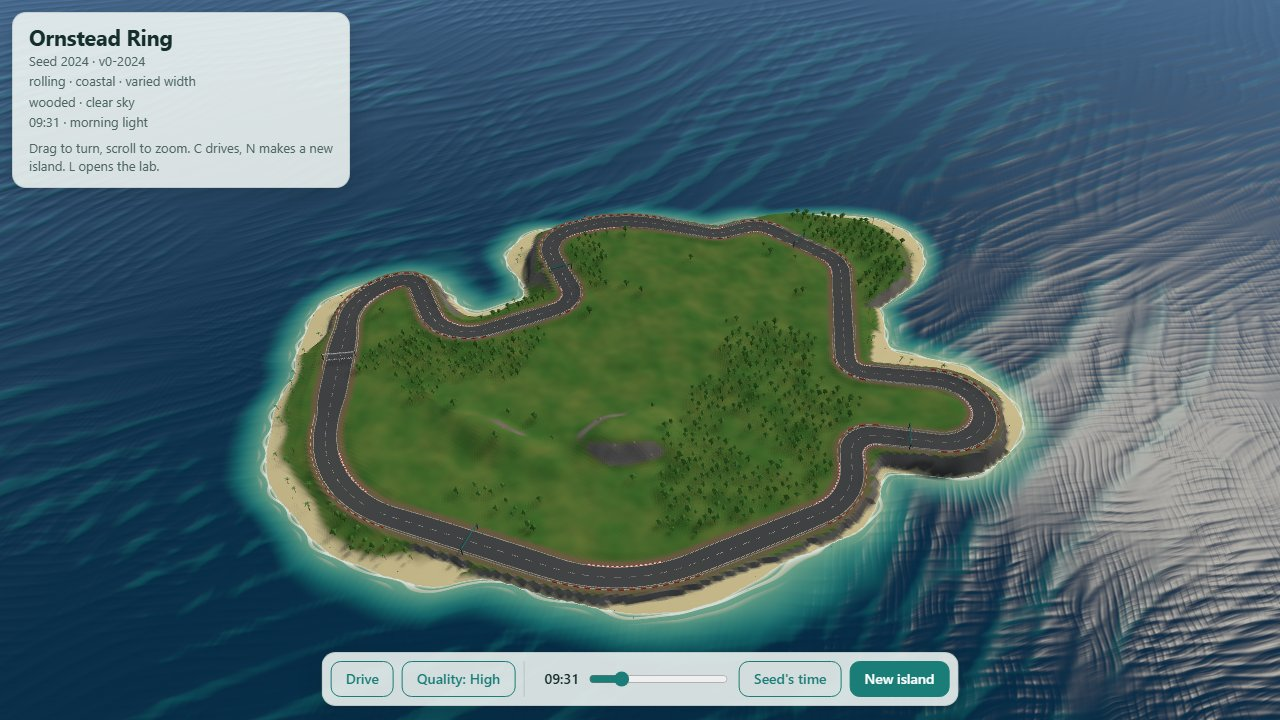
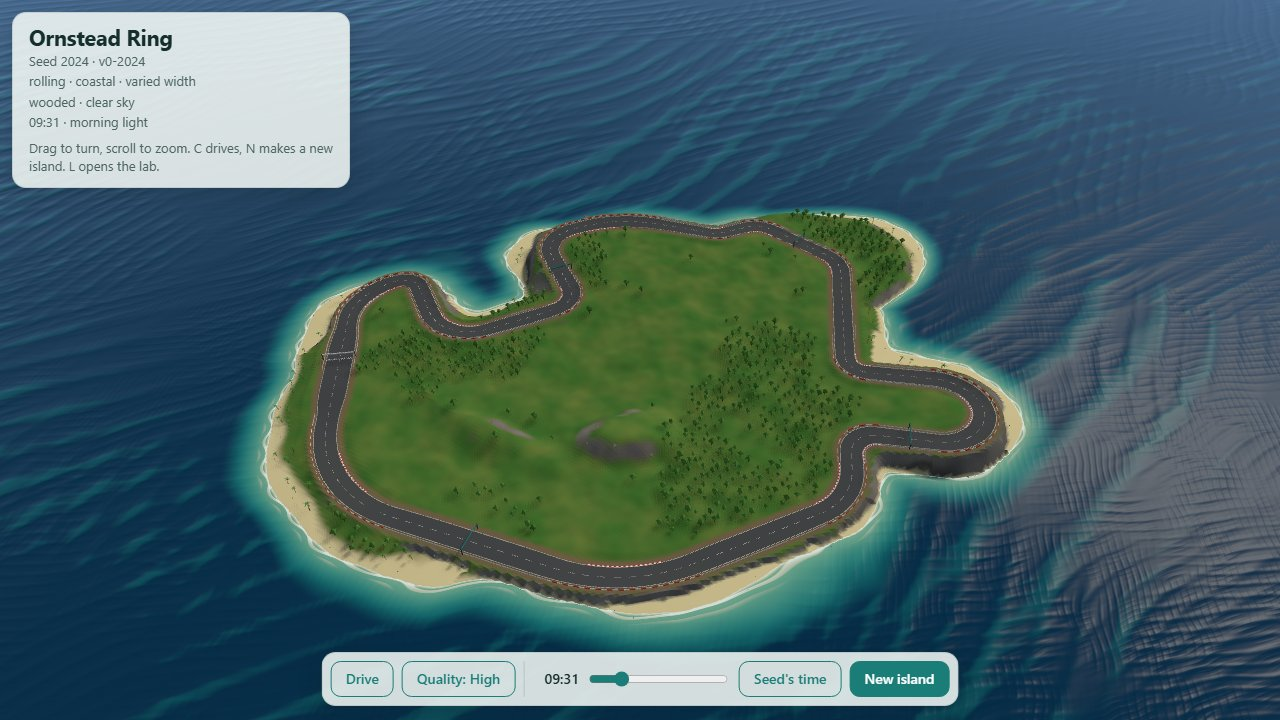
M6.3e: the sun's glare on the sea fades seen from high up
render.water.glintHigh { from 60, to 250, spread 1, strength 0.3 }: in
the water shader the glints' strength falls to 30% between 60 m and
250 m of camera height above the water. A picture with the glint off
showed the wide striped patch from the circling camera is the glint
itself, off the long waves still drawn, so its strength is what is
turned down. From the road nothing changes. Tane chose 30% over off.
The visual bar's island-from-above.jpg taken again: a faint sparkle,
faint stripes still there.

Test: 1 in water.test.ts (the fade begins above the road's cameras and
leaves less than full strength; the shader carries its settings).
3,010 unit tests pass; type check clean; 442 browser tests pass (136
skipped) in 39.3 minutes.

STATE.md: M6.3e done, M6.3f next.

Changed region(s): [[0.6875, 0.2139, 1.0, 1.0], [0.4688, 0.55, 0.5, 0.5806], [0.4375, 0.5806, 0.4688, 0.6111]]

diff --git a/src/render/water.ts b/src/render/water.ts
@@ -130,8 +130,10 @@ export function createWater(size: number, cfg: WaterConfig, shade?: WaterShade, 
         col = mix(col, uSky, clamp(fres * 0.9, 0.0, ${float(cfg.fresnelMost)}));
         vec3 R = reflect(-uSunDir, n);
         // Where waves were left out, the sun's glints spread and soften, as light off unseen waves does.
-        float sharp = ${float(cfg.glint)} / (1.0 + ${float(cfg.glint * cfg.glintSpread)} * lost);
-        float glints = pow(sharp / ${float(cfg.glint)}, ${float(cfg.glintDim)});
+        // From high up they spread less and are fainter, so the glare is no wide striped patch (M6.3e).
+        float high = smoothstep(${float(cfg.glintHigh.from)}, ${float(cfg.glintHigh.to)}, cameraPosition.y - uLevel);
+        float sharp = ${float(cfg.glint)} / (1.0 + ${float(cfg.glint * cfg.glintSpread)} * lost * mix(1.0, ${float(cfg.glintHigh.spread)}, high));
+        float glints = pow(sharp / ${float(cfg.glint)}, ${float(cfg.glintDim)}) * mix(1.0, ${float(cfg.glintHigh.strength)}, high);
         col += uGlint * pow(max(dot(R, V), 0.0), sharp) * ${float(cfg.glintStrength)} * glints * sunLit;
 
         float band = sin(depth * ${float(cfg.foamBands)} - uTime * ${float(cfg.foamSpeed)} + sin(p.x * 0.15 + p.y * 0.12) * 2.0) * 0.5 + 0.5;

diff --git a/src/render/water.test.ts b/src/render/water.test.ts
@@ -24,4 +24,19 @@ describe('createWater', () => {
     expect(config.render.water.stillWaves).toBeLessThan(1);
     lake.dispose();
   });
+
+  it('fades the sun s glints seen from high up, not from the road (M6.3e)', () => {
+    const { glintHigh } = config.render.water;
+    // From the chase camera, a few metres up, nothing changes; from the circling camera the glare is fainter.
+    expect(glintHigh.from).toBeGreaterThan(30);
+    expect(glintHigh.to).toBeGreaterThan(glintHigh.from);
+    expect(glintHigh.strength).toBeLessThan(1);
+    const text = (water: ReturnType<typeof createWater>): string => (water.mesh.material as THREE.ShaderMaterial).fragmentShader;
+    const sea = createWater(1000, config.render.water);
+    expect(text(sea)).toContain(`smoothstep(${glintHigh.from}.0, ${glintHigh.to}.0, cameraPosition.y - uLevel)`);
+    const fainter = createWater(1000, { ...config.render.water, glintHigh: { ...glintHigh, strength: 0.123 } });
+    expect(text(fainter)).toContain('0.123');
+    sea.dispose();
+    fainter.dispose();
+  });
 });

diff --git a/src/config.ts b/src/config.ts
@@ -1497,6 +1497,12 @@ export interface WaterConfig {
    */
   glintSpread: number;
   glintDim: number;
+  /**
+   * M6.3e: seen from high up, the glints spread less and are fainter, so the sun's glare is a soft sparkle rather than
+   * a wide pale patch striped by the long waves: from `from` metres above the water to `to` the spread falls to
+   * `spread` of itself and the strength to `strength`. From the road (a few metres up) nothing changes.
+   */
+  glintHigh: { from: number; to: number; spread: number; strength: number };
   /** Seconds on the wave clock at which the waves stand for a still picture. */
   stillTime: number;
 }
@@ -2632,6 +2638,7 @@ export const config: GameConfig = {
       glintStrength: 0.75,
       glintSpread: 1.5,
       glintDim: 0.65,
+      glintHigh: { from: 60, to: 250, spread: 1, strength: 0.3 },
       stillTime: 0,
     },
     decor: { groupSize: 450, detailDistance: 350, treeSink: 0.35, rockSink: ROCK_SINK, shade: [0.8, 1.12] },

diff --git a/docs/STATE.md b/docs/STATE.md
@@ -8,12 +8,12 @@ The step-by-step record of Milestones 1 and 2 (plans, measurements, check-ins an
 
 - **Current milestone:** **Milestone 6, Polish** ([issue #6](https://github.com/TechnologicTEC/Random-Racing/issues/6)), planned and approved by Tane on 2026-11-25 (below). Milestones 1 to 5 are merged and signed off (PR #7, #9, #10, #11, #12; Milestone 5 signed off by Tane 2026-11-25)
 - **Branch:** `milestone-6-polish`, made from `main` at 009260e. `main` is protected by a GitHub ruleset (no force pushes, no deletion, pull request required); one branch and pull request per milestone, merged after Tane signs off
-- **Last finished part:** M6.3d, cliff and bank tops drawn as lines: squares over 70% steep split along the slope's edge (Tane chose 70%) (2026-11-28)
+- **Last finished part:** M6.3e, the sun's glare on the sea fades to 30% seen from high up (Tane chose 30%) (2026-11-28)
 - **Check-in 1 with Tane (2026-11-28):** after M6.2, the bridges and the tunnels: "it looks good, no real changes needed"
 - **M6.3 picked and split (2026-11-28):** Tane picked the saw-tooth tops, the glare from above, the time of day, the round massif, the rock bands and the lumpy peak, the deep cuttings and the flower dabs; split into M6.3a to M6.3g, generator ones first (`docs/plan/M6-polish.md`)
 - **M6.3a dropped (Tane, 2026-11-28):** the lobed foot was tried and barely showed (below)
 - **M6.3d to M6.3g built and pictured; Tane's answers (2026-11-28):** 70% for the ground's split, the glare from above at 30%, "evening light" from 19:00, the smaller near flowers good; each redone as its own part, tests first, one commit each (below)
-- **Next:** **M6.3e**, the sun's glare on the sea from above at 30% (drawing)
+- **Next:** **M6.3f**, the time of day, with "evening light" from 19:00 (Tane) (drawing)
 - **Hand-over, 2026-11-16.** Fable 5.2 built Milestones 1 and 2 and Milestone 3 up to 4c, then planned the rest: `docs/PLAN.md` (every part to release, in order, with its rules, starting values and "done when" tests) and `docs/VISUAL_BAR.md`. Opus 5.5 finished the plan's later sections the same day and builds from here
 
 ## Milestone 6: polish (2026-11-25)
@@ -47,7 +47,7 @@ Planned in plan mode and approved by Tane on 2026-11-25 (plan file: `C:\Users\ta
 | M6.3b | Wider blends beside deep cuttings on steep ground (generator, world only) | **Done** (below): 45 m (Tane) |
 | M6.3c | Mountain rock with soft, uneven edges; a less lumpy peak (generator) | **Done** (below): the peak left as it is (Tane) |
 | M6.3d | The saw-tooth tops of sea cliffs and cut banks (drawing; a generator fallback if Tane asks) | **Done** (below): over 70% steep (Tane) |
-| M6.3e | The sun's glare on the sea from above (drawing) | To do |
+| M6.3e | The sun's glare on the sea from above (drawing) | **Done** (below): 30% from high up (Tane) |
 | M6.3f | The time of day: clouds at a low sun, dawn and dusk light, the evening sky, the light's names (drawing) | To do |
 | M6.3g | Smaller flower dabs near the chase camera (drawing) | To do |
 | M6.4a | Sound, pure (`src/audio/`): engine, screech, boost, thud from the simulation's state | To do |
@@ -63,6 +63,8 @@ Planned in plan mode and approved by Tane on 2026-11-25 (plan file: `C:\Users\ta
 **Tane after M6.1b (2026-11-25):** "This is looking good. But I wonder if the bridge could look a bit different to the other parts of the track. As although it has the supports and elevated track, on top it looks the same and a player wouldn't really notice the difference. Instead could it maybe look like a wooden bridge or a different colour to the track. I also think we should look into using bridges to cross bits of water. For example we can have the track spanning across a ravine or a river and the bridge can connect the track on either side." Recorded with an outline and the questions in `docs/plan/M6-polish.md` ("Tane after M6.1b"); planned properly in plan mode in a fresh session. M6.1b stays as it is meanwhile: the bridges' shape, ground, railings, pillars and colliders are the base both changes build on.
 
 **M6.3, Tane's picks (2026-11-28).** Offered the 13 look items of `docs/PLAN.md`'s table "Where each known issue is dealt with" and this file's known issues, with what each fix would involve, Tane picked 1, 2, 3, 4, 6, 7 and 11: the saw-tooth tops of sea cliffs and cut banks, the sun's glare from above, the time of day (clouds at dawn and dusk, those hours dark, 18:30's blue "evening light", 10:00's "midday light"), the round cone under a massif, mountain rock in hard-edged bands and the lumpy peak, the steep cuttings beside mountain roads, and the large flower dabs near the chase camera. Left as they are: the coast's curved rock bands, the 64-point mountain check (it would remove the gorges Tane kept), the small generator and grass items (sandy flat seeds, the mown strip's width, nothing cleared round trees, the wind's direction), more trees from above, the title card's place, and new places for three visual bar pictures. The parts are M6.3a to M6.3g in `docs/plan/M6-polish.md`, generator ones first; each shows Tane pictures before and after before its commit.
+
+**M6.3e, done 2026-11-28.** **The sun's glare on the sea from above** (drawing only, `render/water.ts`). Seen from the circling camera the glare was a wide pale patch striped by the waves (seed 2024 and seed 7 at 10:00). A picture with the glint switched off from above showed the patch is the glint itself: the long waves still drawn each catch the sun; spreading it less (tried first, `spread` 0.3) barely changed it. So `render.water.glintHigh` { from 60, to 250, spread 1, strength 0.3 }: in the water shader the glints' strength falls to 30% between 60 m and 250 m of camera height above the water (`smoothstep` on `cameraPosition.y - uLevel`, so a hill river's water measures from its own level); `spread` is kept, at 1 it changes nothing. From the road (a few metres up) nothing changes. **Tane chose 30%** over switching it off from above: seed 2024's striped patch is a faint sparkle, seed 7's glare softer. **Pictures** (the session's scratchpad, `pics/m63e/for-tane.png`: seeds 2024 and 7 from above at 10:00, as it was, at 30% and off; from the road after). Test: 1 in `water.test.ts` (the fade starts above 30 m, ends higher, leaves less than full strength, and the shader carries the settings it is given), seen failing first without the settings. 3,010 unit tests pass; type check clean; 442 browser tests pass (136 skipped, as usual) in 39.3 minutes, with no failure. The visual bar's `island-from-above.jpg` was taken again.
 
 **M6.3d, done 2026-11-28.** **Cliff and bank tops drawn as lines, not teeth** (drawing only: the car's ground, Rapier's heightfield, is unchanged). Every 3 m square of the drawn ground was split into two triangles from its corner `b` to `c`, as the car's ground is, so a sharp edge crossing the grid at a slant was drawn in steps (seed 1's cliff foot at `look=water` a row of teeth). A new pure `render/groundSplit.ts`, `splitsAcross(a, b, c, d, span, steep)`: a square whose steepest side is steeper than `render.groundSplitSteep` 0.7 is split along whichever diagonal joins its two nearer heights, so the crease follows the slope's edge; gentler squares, and squares where both diagonals rise alike, keep the `b`-to-`c` split. `buildTerrainChunks` uses it (`ChunkOptions.steep`, from `detailOptions`), and so does the grass, so blades stand on the drawn ground and take its light: `groundHeightAt`, `groundNormalAt`, `bladeAt` and `grassGlsl` take `steep`, and `createGrassView` passes `render.groundSplitSteep`. **What shows:** seed 1's cliff foot is a clean line; seed 7's cliff top a little cleaner; seed 12's quilted hillside unchanged (its slopes are under 70%). **0.7 rather than 0.4 (Tane):** at 0.4 seed 12's bank softened a little more, but over seeds 1 to 20, of 253,453 squares between 40% and 70% steep that would split the other way, the drawn ground would stand off the car's ground by 0.66 m or more at 1 in 100 (median 0.02 m, most 1.71 m), where a car can be; over 70% (87,146 squares) a car cannot stand. **Pictures** (the session's scratchpad, `pics/m63d/`: `for-tane.png`, seed 1 at `look=water` and `look=bank` and seed 7 at `look=water`, before and after; `try2-sheet.png`, 0.7 against 0.4). Tests: 5 in the new `groundSplit.test.ts` (a steep square split from `a` to `d` when they are the nearer heights; the usual split at or under the threshold, when `b` and `c` are nearer, and when both diagonals rise alike; steepness measured over the square's side); 3 in `terrainChunks.test.ts` (a 300% fold running corner to corner is drawn exactly, each triangle on one side of it, where the usual split straddles it by 2 m; a 50% fold keeps the usual split; the 3D view's options carry the threshold); 3 in `grass.test.ts` (on the fold the blades' ground is the fold itself and faces as its triangle does; the shader splits steep squares at the threshold it is given); the seed-7 tests that put every blade's foot on the mesh now build the mesh with the threshold. Seen failing first: all but two (the module missing; the mesh and the grass straddling the fold; the shader without the steep branch); the 50% fold's and the options' passed either way. 3,009 unit tests pass; type check clean; 442 browser tests pass (136 skipped, as usual) in 40.2 minutes, with no failure. The visual bar's `shore.jpg` was taken again.
 
@@ -482,7 +484,7 @@ The design notes for Milestones 4, 5 and 6, and their steps, are in `docs/PLAN.m
 - **The circling camera frames only part of the lap on the biggest islands** (seed 10 from above).
 - Enclosed water is possible where a fold in the track is closed off by land at its mouth. None seen yet; it would be a lagoon.
 - In 3D the sea cliffs read well as rock faces. The peak was noted as craggy and a bit lumpy from the ridge texture on its sides; at M6.3c no lumpiness showed on any peak's pictures, and Tane left it (2026-11-28). On a lone peak whose sides are much steeper than its foot (seed 1), rock still begins along a fairly crisp line at the foot.
-- **The sun's glare on the sea, seen from the circling camera, is a wide pale patch with wave stripes in it** (seed 7 at 10:00). Softer than it was; `render.water.glint*` are the settings.
+- **The sun's glare on the sea, seen from the circling camera, is a faint sparkle** (seed 2024 at 10:00): since M6.3e it fades to 30% from high up (`render.water.glintHigh`), so the wide striped patch is gone; the stripes are still there, faintly.
 - **The water shader does more work per pixel than the demo's** (eight wave trains, each with a noise lookup). Measured in step 15: the sea surface costs about 0.5 ms a frame at 1080p on the Arc graphics; Low keeps the four longest of the eight trains.
 - **From far above, open and wooded islands still look fairly bare**: a tree is 6 to 10 m tall on an island 1 to 2 km across, so woods read as patches of dark dots. `world.decor.trees.level` sets how much is wooded and `spacing` how close the trees stand. For Tane to judge.
 - **Clouds are dark grey-brown at 07:00 and 19:30**, seen against the pink sky. `render.clouds.glow` is the setting.
@@ -627,3 +629,4 @@ Entries up to the end of Milestone 2 are in `docs/archive/STATE-milestone-1-2.md
 - **2026-11-28 (Milestone 6, Opus 5.5):** M6.3c done: the rock's and the snow's edges wander with a broad noise, the rock blending in from 50% to 100% steep, gentle ground kept grass (Tane chose the look, and to leave the peak). Next: M6.3d.
 - **2026-11-28 (Milestone 6, Opus 5.5):** M6.3d to M6.3g built and pictured for Tane's look, kept as patches in the session's scratchpad, not committed (the saw-tooth tops, the glare from above, the time of day, the flower dabs). Next: Tane's look, then each as its own part.
 - **2026-11-28 (Milestone 6, Opus 5.5):** Tane's answers on M6.3d to M6.3g: 70%, 30%, evening from 19:00, flowers good. M6.3d done: squares of the drawn ground over 70% steep are split along the slope's edge, so cliff tops are lines; the grass follows. Next: M6.3e.
+- **2026-11-28 (Milestone 6, Opus 5.5):** M6.3e done: the sun's glints on the sea fade to 30% between 60 m and 250 m of camera height, so the glare from above is a faint sparkle. Next: M6.3f.

diff --git a/docs/plan/M6-polish.md b/docs/plan/M6-polish.md
@@ -43,7 +43,7 @@ Each part ends with passing tests and one commit (`docs/PLAN.md`, "The routine f
 | **M6.3b** | **Wider blends beside deep cuttings** (generator, world only: the fit runs after the track is chosen). The blend from the road's edge into the hillside is `abs(difference) / road.blendSlope` (0.4), held to `blendMin` 10 m and `blendMax` 25 m (`gen/world/fit.ts`), so a cut of 13 m on a steep hillside is a trench. On steep ground the blend may reach further (its own config value), so the bank beside the road lies back. Measured over the mountain seeds of 1 to 200: the steepest bank beside the road (210% today) and the deepest cut at a road edge (13 m today); the barrier, wall and tunnel tests still pass. Pictures before and after: seeds 3 and 53 (the trenches), 1 `look=cut` and `look=bank`. **Done 2026-11-28:** `road.blendCutMax` 45 m (Tane, on pictures; past the brief's 10 to 25 m, the embankments' `blendMax` 25 m kept), held inside a corner to 0.8 of its radius from the centre line, the corner taken from a curvature smoothed along the lap (`smoothBends`), since towards a corner's middle the nearest point of the road jumps to another part of it at another height; `fitReach` shared by the fit, the island and the report. Over the 38 mountain seeds of 1 to 200, cut-bank cells steeper than 150% fell from 0.91% to 0.47% and steeper than 100% from 3.46% to 2.45%; the report's steepest bank at most 3.89 (was 4.08). Seeds 3 and 53's trenches turned out not to be cuttings: the coast carving high ground inside a fold (seed 3) and a natural valley (seed 53), both left (`docs/STATE.md`) |
 | **M6.3c** | **Mountain rock with soft, uneven edges; a less lumpy peak** (generator). Rock is where the ground is high (`world.cover.rockHeight` 130 to 160 m, its edge wandering 6 m with the variation) or steep (`rockSlope` 55 to 85%), so it lies in hard-edged bands (`mountain.jpg`). The edge is broken up by a broader noise, so rock reaches down gullies and grass up spurs, and blends over a wider band (`gen/world/cover.ts`); the ridge texture on a peak's sides (`rockDepth`) is lowered if the pictures ask for it (it shapes the massif's top, in the relief, so it would move tracks as M6.3a does). Pictures before and after: seed 1 `look=summit`, seeds 3, 12 and 13 circling. **Done 2026-11-28:** the rock's and the snow's edges wander with a broad noise (`world.cover.edge`: 70 m, the rock's slopes by up to 0.5, its heights by up to 40 m, the snow line by up to 20 m), the rock blending in from 50% to 100% steep (`rockSlope`, was 55 to 85%); the wander pushes rock only onto slopes within `edge.reach` 0.15 of where rock begins, so gentle ground stays grass. Tane chose the second, stronger try of three on pictures, and to leave the peak as it is (no lumpiness showed on any peak's pictures, and `rockDepth` would move mountain laps) (`docs/STATE.md`) |
 | **M6.3d** | **The saw-tooth tops of sea cliffs and cut banks** (drawing first). Every 3 m square of the ground is split into two triangles along the same diagonal (`render/terrainChunks.ts`), so a sharp edge crossing the grid at a slant is drawn in steps. On squares steeper than the car can stand on (its own config value, well over the 40% wall rule), the square is split along whichever diagonal follows the edge; elsewhere as now, so the ground drawn and the ground the car meets (Rapier's heightfield, split the old way) agree wherever a car can be, and the grass (none on cliff rock) is unaffected. If the pictures still show teeth, smoothing the cliff's top edge in the heights is the generator fallback, Tane's call. Pictures before and after: seed 1 `look=bank`, seed 7 `look=water` (`shore.jpg`), seed 2024 at 18:30 (`road-corner-woods.jpg`), seeds 3 and 53's cuttings **Done 2026-11-28:** a square of the drawn ground steeper than `render.groundSplitSteep` 0.7 is split along whichever diagonal joins its two nearer heights (`render/groundSplit.ts`), so the crease follows the slope's edge; the grass follows the same triangles. Gentler squares keep the split the car's ground has. 0.7 rather than 0.4 (Tane), since below 70% a car can stand there and the drawn ground would stand off its ground (`docs/STATE.md`) |
-| **M6.3e** | **The sun's glare on the sea from above** (drawing). Seen from the circling camera the glare is a wide pale patch with wave stripes in it (seed 7 at 10:00, `island-from-above.jpg`). The glints (`render.water.glint*`, the water shader) are tightened and their stripes faded with the camera's height, so the glare from the road is unchanged. Pictures before and after: seeds 7 and 2024 circling at 10:00 and 13:00; seed 7 `look=water` and `look=sun` unchanged |
+| **M6.3e** | **The sun's glare on the sea from above** (drawing). Seen from the circling camera the glare is a wide pale patch with wave stripes in it (seed 7 at 10:00, `island-from-above.jpg`). The glints (`render.water.glint*`, the water shader) are tightened and their stripes faded with the camera's height, so the glare from the road is unchanged. Pictures before and after: seeds 7 and 2024 circling at 10:00 and 13:00; seed 7 `look=water` and `look=sun` unchanged **Done 2026-11-28:** the glints fade to 30% of their strength between 60 m and 250 m of camera height above the water (`render.water.glintHigh`); from the road nothing changes. A picture with the glint off showed the striped patch is the glint itself, off the long waves still drawn, so its strength is what was turned down (Tane chose 30% over off) (`docs/STATE.md`) |
 | **M6.3f** | **The time of day** (drawing, all one look at `render/daylight.ts` and `lightName`). The clouds are grey-brown against the pink sky at 07:00 and 19:30 (`render.clouds.glow`): lit by the low sun's warm colour instead; those hours a little lighter; 18:30 is called "evening light" with a plain blue sky, so the sky warms sooner before sunset or the names' hours move, Tane's call on pictures; 10:00 is called "midday light" (morning ends at 10:00), so the names' hours move. Pictures before and after: the time strip of seed 7 (07:00, 08:00, 10:00, 13:00, 17:00, 18:30, 19:30), `sunrise.jpg` and `road-corner-woods.jpg` taken again |
 | **M6.3g** | **Smaller flower dabs near the chase camera** (drawing). From the chase camera in long meadow grass the flower dabs look large and busy (seed 7, 6d's pictures): `render.grass.flowers` made smaller or sparser near the camera, the far patches kept as they are. Pictures before and after: seed 7 driving through meadow, seed 2024 circling |
 | **M6.4a** | Sound, pure (`src/audio/`): engine pitch and gain, screech by tier, boost whoosh, thud on a new wall hit, and a rumble while on a wooden deck (Tane, 2026-11-26), from the simulation's state |

diff --git a/docs/PLAN.md b/docs/PLAN.md
@@ -127,7 +127,7 @@ Written 2026-11-16 by the model that built Milestones 1 and 2 and Milestone 3 up
   - [x] **M6.3b** Wider blends beside deep cuttings on steep ground (generator) (2026-11-28; 45 m, Tane)
   - [x] **M6.3c** Mountain rock with soft, uneven edges; a less lumpy peak (generator) (2026-11-28; the peak left as it is, Tane)
   - [x] **M6.3d** The saw-tooth tops of sea cliffs and cut banks (drawing; a generator fallback if Tane asks) (2026-11-28; over 70% steep, Tane)
-  - [ ] **M6.3e** The sun's glare on the sea from above (drawing)
+  - [x] **M6.3e** The sun's glare on the sea from above (drawing) (2026-11-28; 30% from high up, Tane)
   - [ ] **M6.3f** The time of day: clouds at a low sun, dawn and dusk light, the evening sky, the light's names (drawing)
   - [ ] **M6.3g** Smaller flower dabs near the chase camera (drawing)
 - **M6.4** Sound:
@@ -227,7 +227,7 @@ Every item under "Known issues and risks" in `docs/STATE.md`, by the step that d
 | Mountain worlds are the slowest to build (3.0 to 3.3 s headless); Firefox 1.6 times slower than Chromium | **M6.7** (the budget test uses seed 7 and passes) |
 | The grass's 176,000 triangles; the most wooded islands' 589,000 from above; the water shader's cost; Low gains least from above; the page draws every frame | **M6.7**, and **10b** checks the chase view |
 | Sea cliffs and cut banks have a saw-tooth top edge on the 3 m grid | **M6.3d** (done: squares over 70% steep split along the slope's edge) |
-| The sun's glare from above is a wide pale patch with wave stripes | **M6.3e** |
+| The sun's glare from above is a wide pale patch with wave stripes | **M6.3e** (done: 30% from high up) |
 | Clouds dark grey-brown at 07:00 and 19:30; those times quite dark; 18:30 called "evening light" with a blue sky; 10:00 called "midday light" | **M6.3f** (all one look at `render/daylight.ts` and `lightName`) |
 | The round cone under a massif | Left (Tane, M6.3a, 2026-11-28: a lobed foot barely showed; the round look is the coast's cliffs) |
 | Mountain rock in hard-edged bands; the peak a bit lumpy | **M6.3c** (done: the edges wander; the peak left, Tane) |

diff --git a/docs/VISUAL_BAR.md b/docs/VISUAL_BAR.md
@@ -98,7 +98,7 @@ The car was drawn in step 5c, to the proposal below, and Tane approved it at che
 ## Flaws these pictures already have (known issues, not the bar)
 
 - The edge of a slope under 70% steep is still a saw-tooth (the cliff's foot on the beach in `shore.jpg`; the bank inside the corner in `road-corner-woods.jpg`); since M6.3d steeper cliffs' edges are lines (seed 1 `look=water`).
-- From above, the sun's glare on the sea is a wide pale patch with wave stripes (`island-from-above.jpg`, right).
+- From above, the sun's glare on the sea still shows faint wave stripes (`island-from-above.jpg`, right; a faint sparkle since M6.3e).
 - At 07:00 the clouds are grey-brown against the pink sky (`sunrise.jpg`).
 - On a lone peak much steeper than its foot, rock still begins along a fairly crisp line at the foot (`mountain.jpg`; softer since M6.3c).
 - `time=18:30` is named "evening light" but its sky is still plain blue (`road-corner-woods.jpg`).
